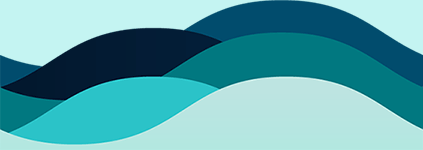
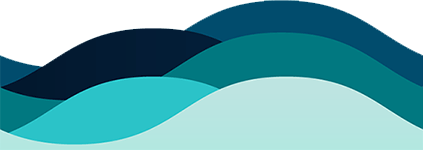
waves

Changed region(s): [[0.0, 0.0, 1.0, 0.4533]]

diff --git a/new.html b/new.html
@@ -148,8 +148,10 @@ h4.austral {
 	line-height: .9em;
 }
 .wave-background {
-	background: #c4f4f2 url("waves.png") center bottom repeat-x;
-	height: 175px;
+	background: transparent url("waves.png") center top repeat-x;
+	height: 150px;
+    	-webkit-animation: wave 90s linear infinite;
+	animation: wave 90s linear infinite;
 }
 .page-background {
 	background: linear-gradient(#b3e8e1, #27b5ae);
@@ -233,6 +235,23 @@ background-position: 0 0;
 }
 to {
 background-position: 1920px 0;
+}
+}
+    
+@-webkit-keyframes wave {
+from {
+background-position: 423px 0;
+}
+to {
+background-position: 0 0;
+}
+}
+@keyframes wave {
+from {
+background-position: 423px 0;
+}
+to {
+background-position: 0 0;
 }
 }
 
